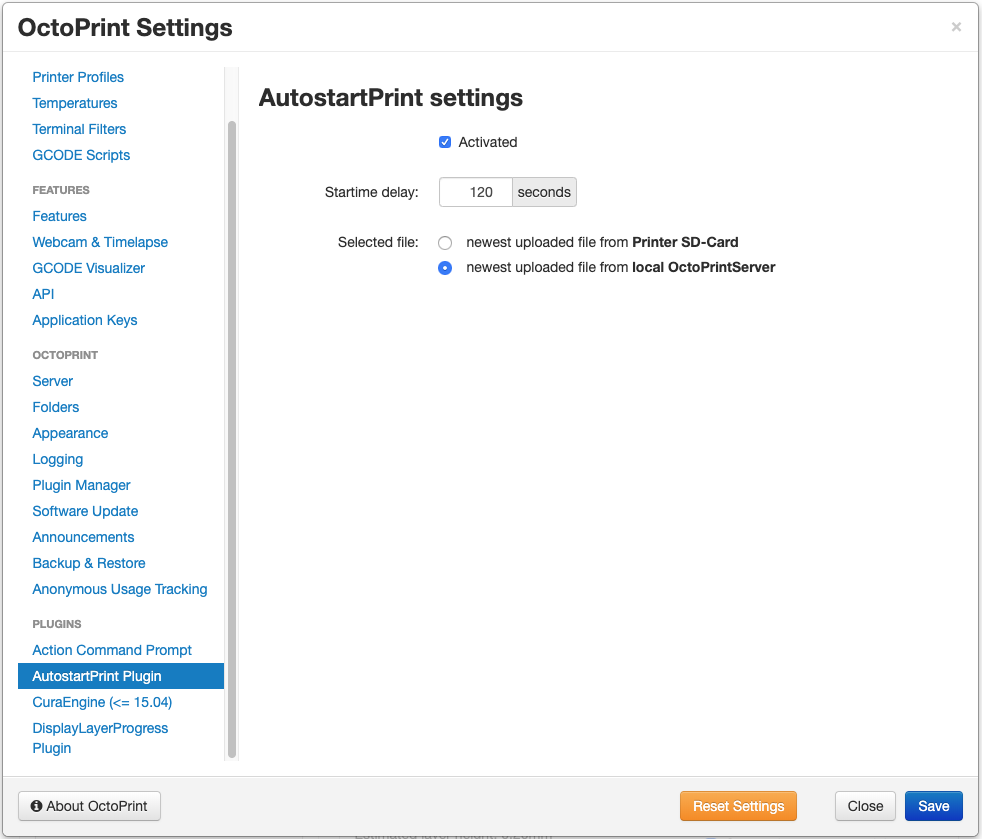
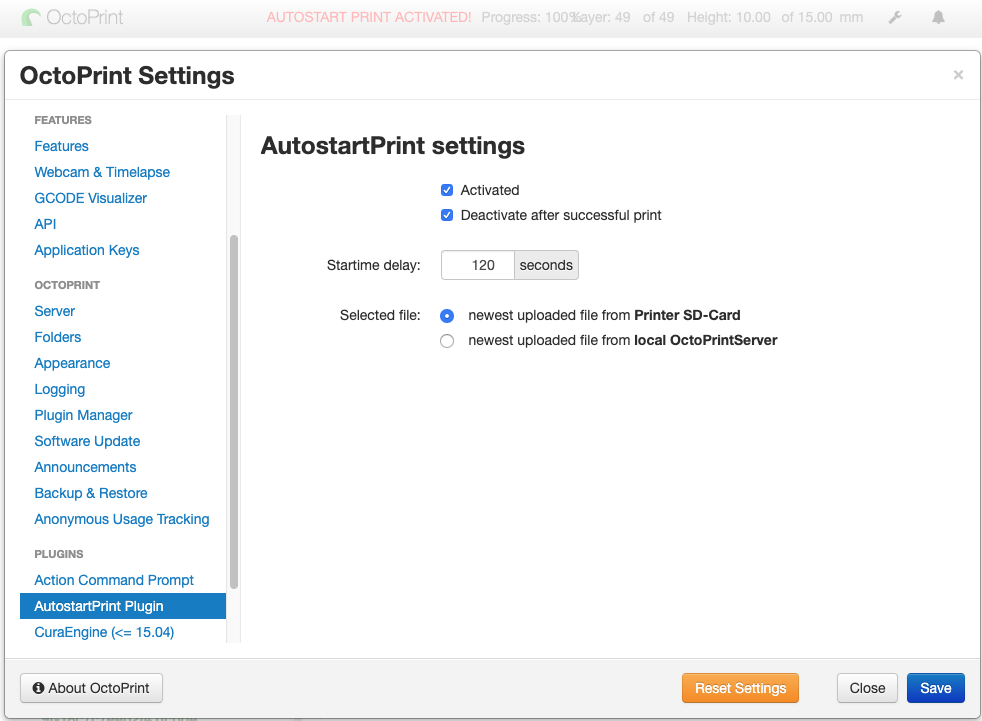
Version 1.0.0 preparation

diff --git a/octoprint_AutostartPrint/static/js/AutostartPrint.js b/octoprint_AutostartPrint/static/js/AutostartPrint.js
@@ -85,6 +85,7 @@ $(function() {
         new ResetSettingsUtil().assignResetSettingsFeature(PLUGIN_ID, function(data){
                                 // assign default settings-values
                                 self.pluginSettings.activated(data.activated);
+                                self.pluginSettings.deactivateAfterSuccessful(data.deactivateAfterSuccessful);
                                 self.pluginSettings.startPrintDelay(data.startPrintDelay);
                                 self.pluginSettings.fileSelectionMode(data.fileSelectionMode);
         });
@@ -134,7 +135,10 @@ $(function() {
                     countdownCircle = null;
                 }
                 return;
+            }
 
+            if ("currentActivationState" == data.action){
+                self.pluginSettings.activated(data.activated);
             }
         }
     }

diff --git a/octoprint_AutostartPrint/__init__.py b/octoprint_AutostartPrint/__init__.py
@@ -15,6 +15,7 @@ from threading import Thread
 ## GLOBAL KEYS
 
 SETTINGS_KEY_ACTIVATED = "activated"
+SETTINGS_KEY_DEACTIVATE_AFTER_SUCCESSFUL = "deactivateAfterSuccessful"
 SETTINGS_KEY_START_PRINT_DELAY = "startPrintDelay"
 SETTINGS_KEY_FILE_SELECTION_MODE = "fileSelectionMode"
 
@@ -48,9 +49,17 @@ class AutostartPrintPlugin(octoprint.plugin.SettingsPlugin,
 	def _sendCountdownTimeToClient(self, maxCountdownSeconds, currentCountdownSeconds):
 		self._plugin_manager.send_plugin_message(self._identifier,
 												 dict(action="upateCountdown",
-													  selectedFilename = self.selectedFilename,
+													  activated = self.selectedFilename,
 													  maxCountdownSeconds = maxCountdownSeconds,
 													  currentCountdownSeconds = currentCountdownSeconds))
+
+	def _sendCurrentActivationStateToClient(self):
+		self._plugin_manager.send_plugin_message(self._identifier,
+												 dict(action="currentActivationState",
+													  activated = self._settings.get_boolean([SETTINGS_KEY_ACTIVATED])
+													  )
+												 )
+
 
 
 	def _autostartPrintThreadFunction(self, fileName, filePath, isSDDestination):
@@ -139,6 +148,10 @@ class AutostartPrintPlugin(octoprint.plugin.SettingsPlugin,
 
 			self._logger.info("!!!CONNECTED-Event DONE")
 
+		if (Events.PRINT_DONE == event and self._settings.get_boolean([SETTINGS_KEY_DEACTIVATE_AFTER_SUCCESSFUL])):
+			self._settings.set_boolean([SETTINGS_KEY_ACTIVATED], False)
+			self._settings.save()
+			self._sendCurrentActivationStateToClient()
 
 	def on_settings_save(self, data):
 		# default save function
@@ -167,6 +180,7 @@ class AutostartPrintPlugin(octoprint.plugin.SettingsPlugin,
 		return dict(
 			# put your plugin's default settings here
 			activated = False,
+			deactivateAfterSuccessful = True,
 			startPrintDelay = 120,
 			fileSelectionMode = FILE_SELECTION_MODE_SDCARD
 		)

diff --git a/setup.py b/setup.py
@@ -14,11 +14,11 @@ plugin_package = "octoprint_AutostartPrint"
 plugin_name = "OctoPrint-AutostartPrint"
 
 # The plugin's version. Can be overwritten within OctoPrint's internal data via __plugin_version__ in the plugin module
-plugin_version = "1.0.0dev"
+plugin_version = "1.0.0"
 
 # The plugin's description. Can be overwritten within OctoPrint's internal data via __plugin_description__ in the plugin
 # module
-plugin_description = """Execute print after poweron"""
+plugin_description = """Autostart a Print after conneting."""
 
 # The plugin's author. Can be overwritten within OctoPrint's internal data via __plugin_author__ in the plugin module
 plugin_author = "OllisGit"

diff --git a/extras/AutostartPrint.md b/extras/AutostartPrint.md
@@ -2,88 +2,35 @@
 layout: plugin
 
 id: AutostartPrint
-title: OctoPrint-AutostartPrint
-description: Execute print after poweron
-author: OllisGit
+title: AutostartPrint
+description: Autostart a print job after conneting.
+author: Olli
 license: AGPLv3
 
-# TODO
-date: today's date in format YYYY-MM-DD, e.g. 2015-04-21
+date: 2019-09-23
 
 homepage: https://github.com/OllisGit/OctoPrint-AutostartPrint
 source: https://github.com/OllisGit/OctoPrint-AutostartPrint
-archive: https://github.com/OllisGit/OctoPrint-AutostartPrint/archive/master.zip
+archive: https://github.com/OllisGit/OctoPrint-AutostartPrint/releases/latest/download/master.zip
 
-# TODO
 # Set this to true if your plugin uses the dependency_links setup parameter to include
 # library versions not yet published on PyPi. SHOULD ONLY BE USED IF THERE IS NO OTHER OPTION!
 #follow_dependency_links: false
 
-# TODO
 tags:
-- a list
-- of tags
-- that apply
-- to your plugin
-- (take a look at the existing plugins for what makes sense here)
+- printer
 
-# TODO
 screenshots:
-- url: url of a screenshot, /assets/img/...
-  alt: alt-text of a screenshot
-  caption: caption of a screenshot
-- url: url of another screenshot, /assets/img/...
-  alt: alt-text of another screenshot
-  caption: caption of another screenshot
-- ...
-
-# TODO
-featuredimage: url of a featured image for your plugin, /assets/img/...
-
-# TODO
-# You only need the following if your plugin requires specific OctoPrint versions or
-# specific operating systems to function - you can safely remove the whole
-# "compatibility" block if this is not the case.
-
-compatibility:
-
-  # List of compatible versions
-  #
-  # A single version number will be interpretated as a minimum version requirement,
-  # e.g. "1.3.1" will show the plugin as compatible to OctoPrint versions 1.3.1 and up.
-  # More sophisticated version requirements can be modelled too by using PEP440
-  # compatible version specifiers.
-  #
-  # You can also remove the whole "octoprint" block. Removing it will default to all
-  # OctoPrint versions being supported.
-
-  octoprint:
-  - 1.2.0
-
-  # List of compatible operating systems
-  #
-  # Valid values:
-  #
-  # - windows
-  # - linux
-  # - macos
-  # - freebsd
-  #
-  # There are also two OS groups defined that get expanded on usage:
-  #
-  # - posix: linux, macos and freebsd
-  # - nix: linux and freebsd
-  #
-  # You can also remove the whole "os" block. Removing it will default to all
-  # operating systems being supported.
-
-  os:
-  - linux
-  - windows
-  - macos
-  - freebsd
+- url: https://github.com/OllisGit/Octoprint-AutostartPrint/raw/master/screenshots/plugin-settings.png
+  alt: Plugin Settings
+  caption: Plugin Settings
+- url: https://github.com/OllisGit/Octoprint-AutostartPrint/raw/master/screenshots/countdown-dialog.png
+  alt: Countdown Dialog
+  caption: Countdown Dialog
+  
 
 ---
 
-**TODO**: Longer description of your plugin, configuration examples etc. This part will be visible on the page at
-http://plugins.octoprint.org/plugin/AutostartPrint/
+The Plugin starts a print job after the Printer is connected (e.g. after powering up). It selects the newest uploaded file for print.
+
+For implementation details please visit the [homepage]({{ page.homepage | absolute_url }}).
